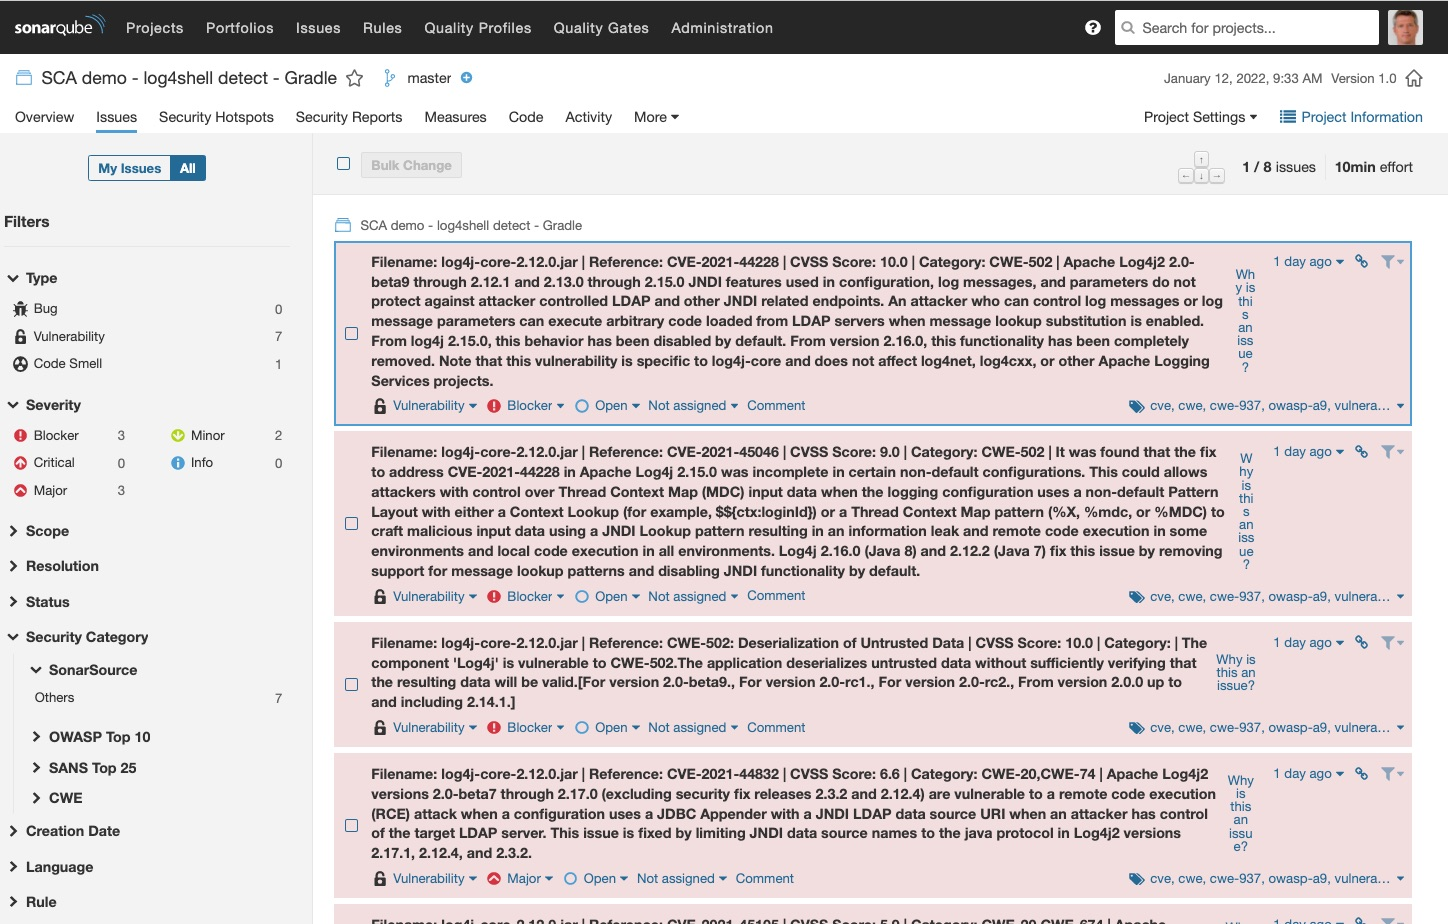
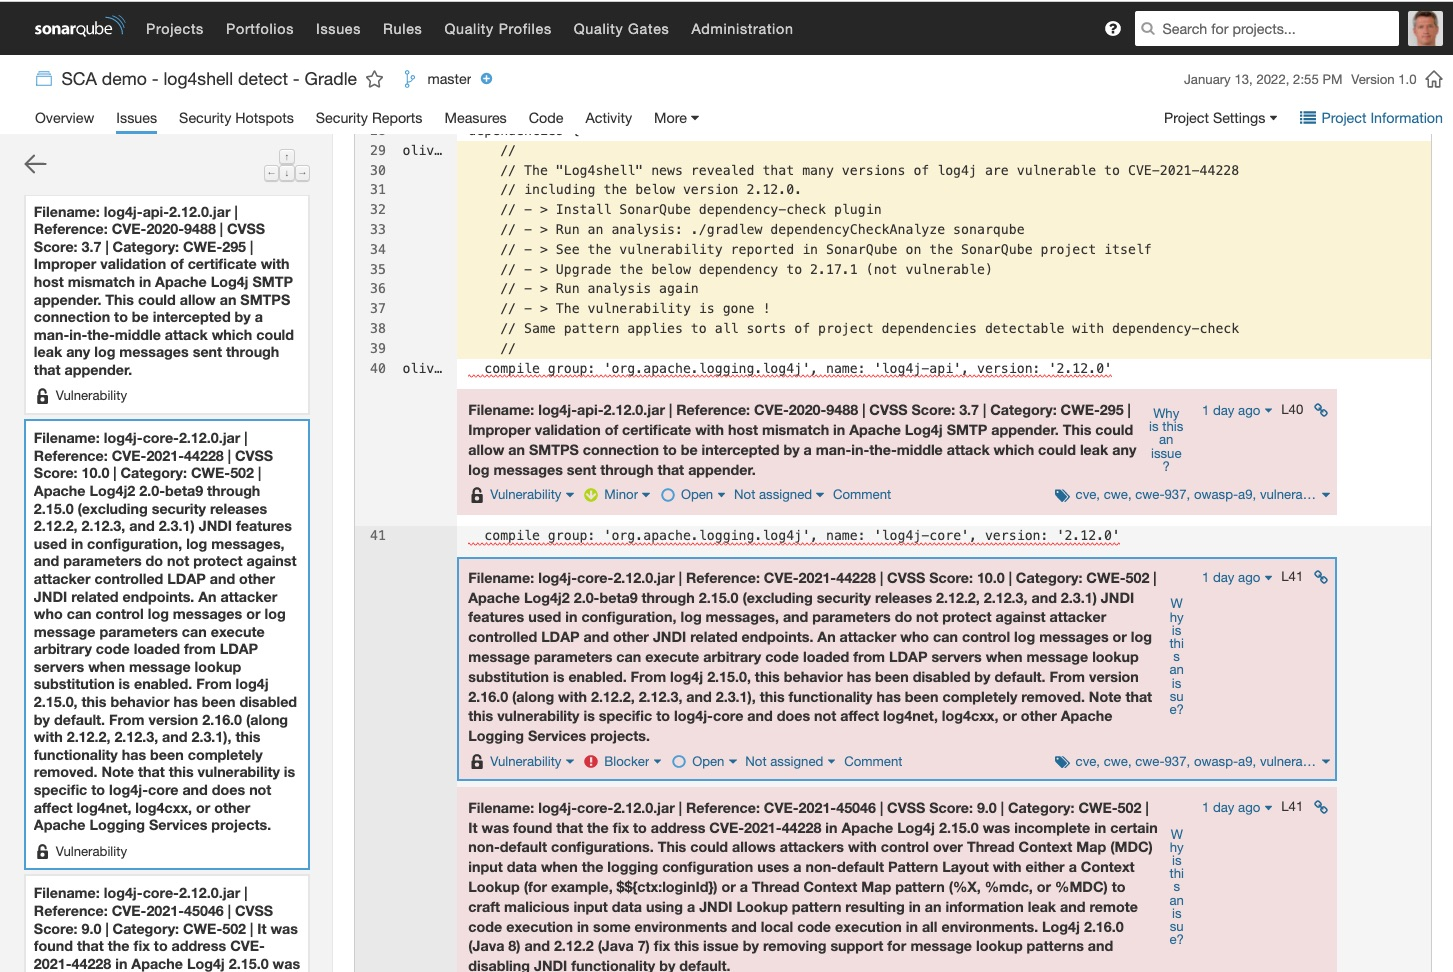
Include build.gradle in SQ project to report SCA on the right line of build.gradle

diff --git a/gradle-example/README.md b/gradle-example/README.md
@@ -19,7 +19,7 @@ log4shell is just an example, this demo aims at showing the integration of any S
 
 3. Run analysis
 
-- Run: `./gradlew dependencyCheckAnalyze sonarqube`
+- Run: `./gradlew dependencyCheckAnalyze sonarqube -Dsonar.sources=src,build.gradle`
 
 - Browse to your project in SonarQube and check the list of vulnerabilities. At least one should be attached to **the project itself** (unlike for maven where the vulnerability is attached to the `pom.xml` file) that holds
   the dependency to log4j 2.12.0. You should get something like below
